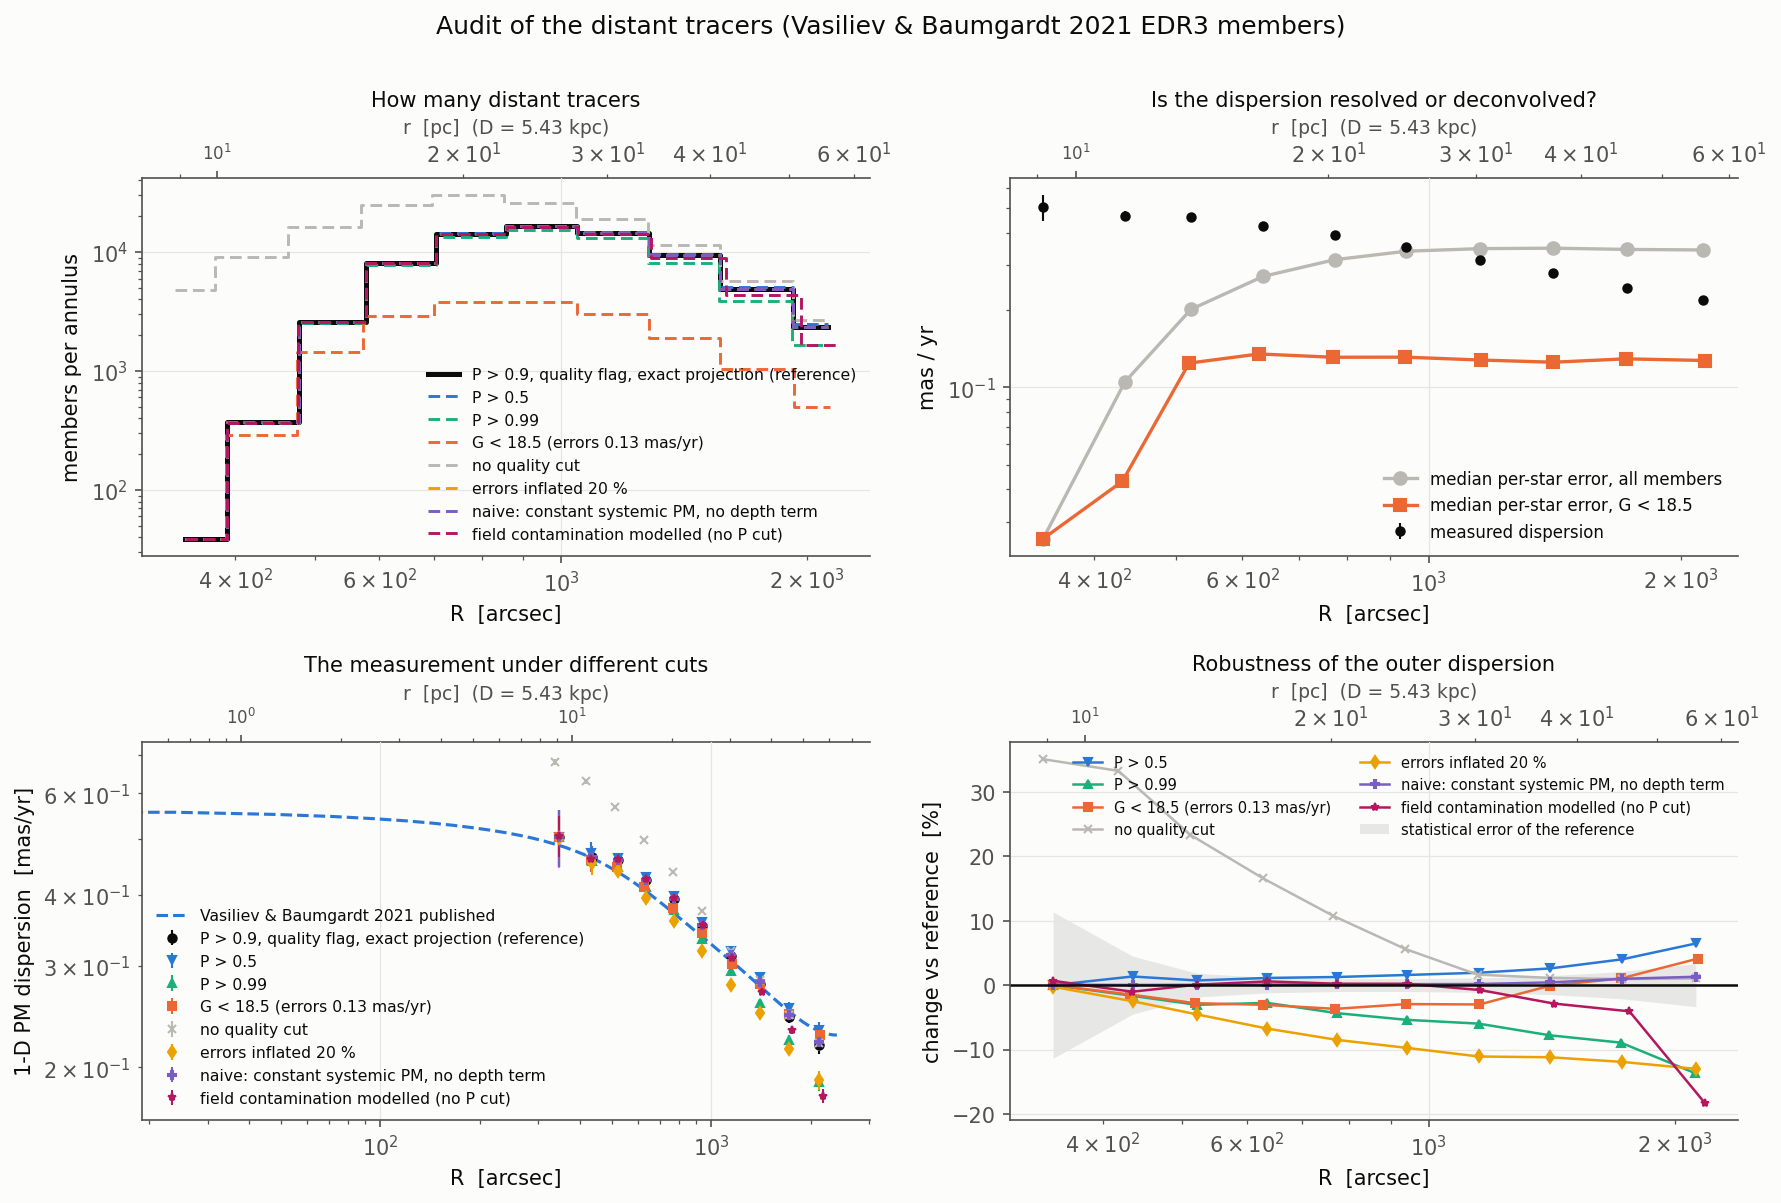
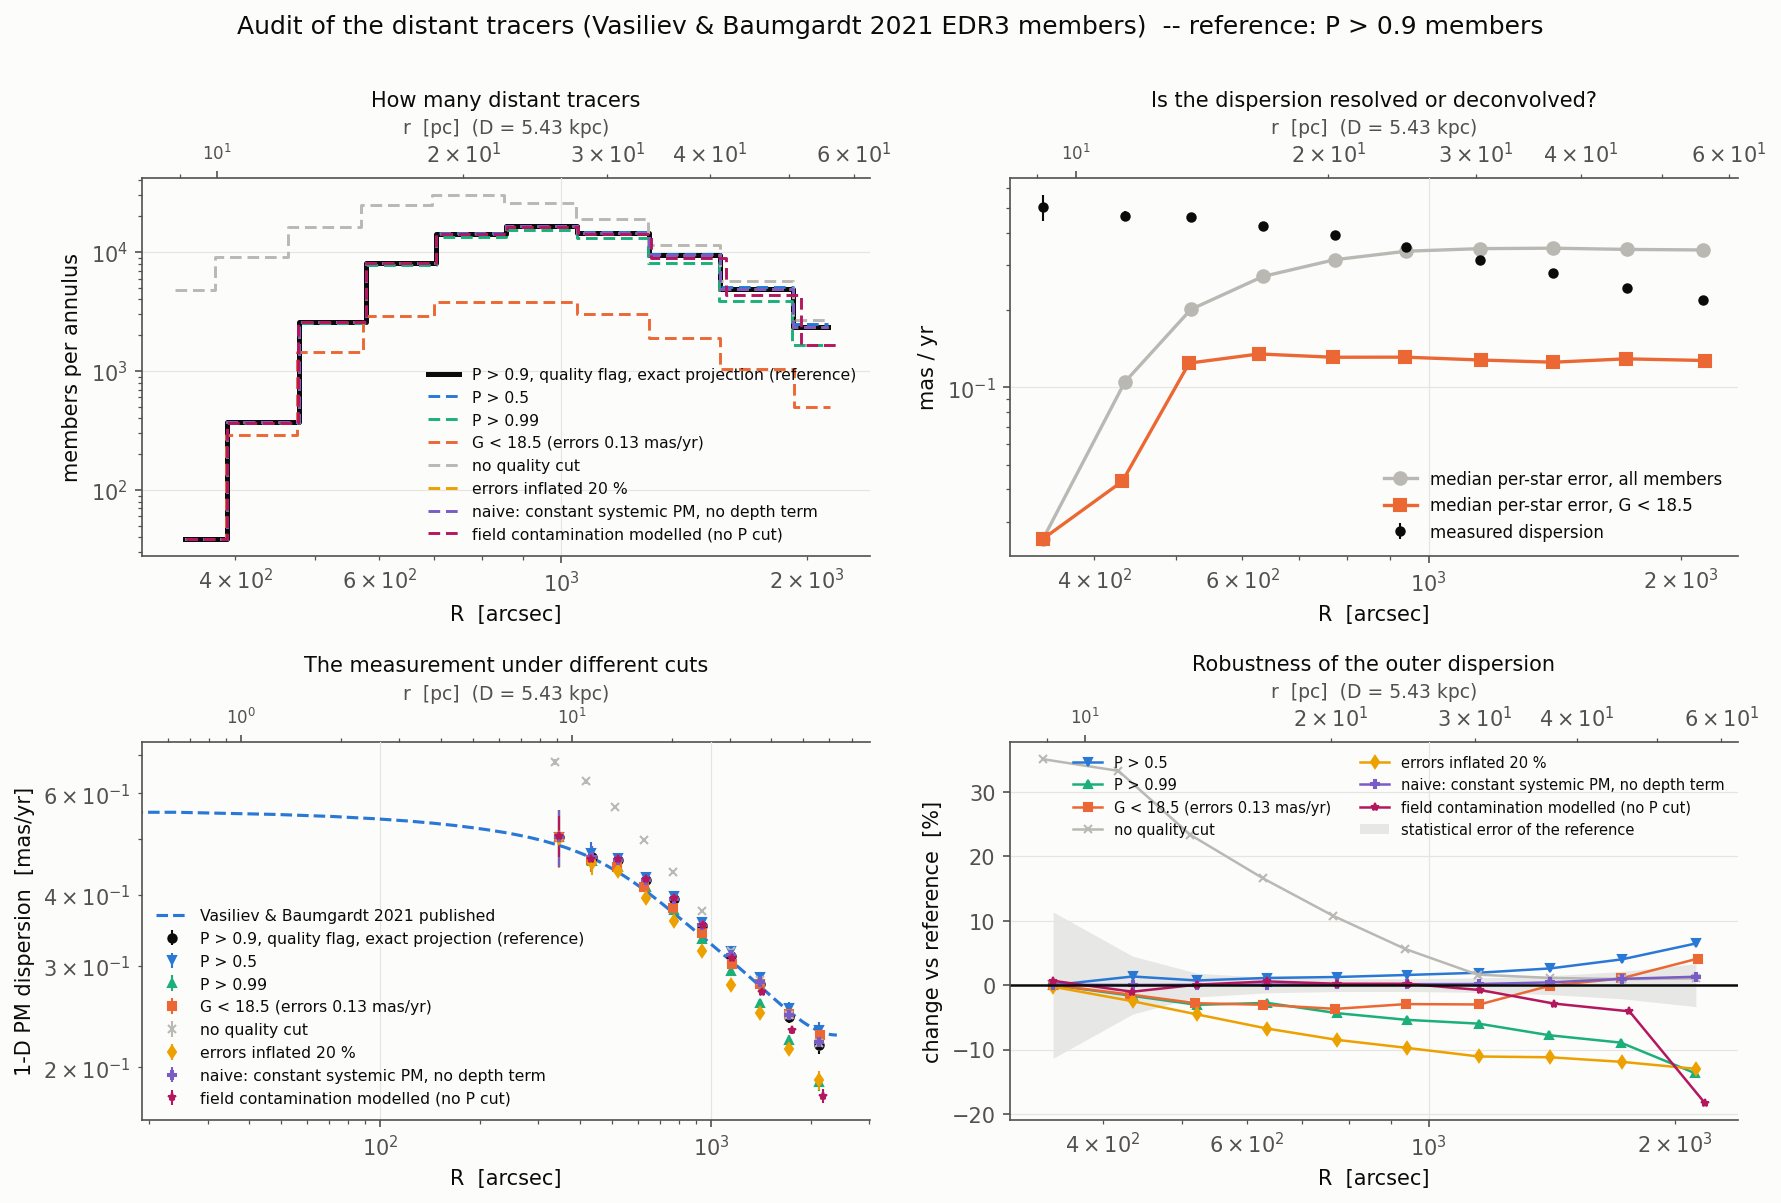
Constraint map and tracer audit in both versions (with/without contamination model); contamination-model illustration figure

Changed region(s): [[0.1235, 0.0, 0.8647, 0.0308]]

diff --git a/src/ocen_dm/plotting/constraints.py b/src/ocen_dm/plotting/constraints.py
@@ -31,7 +31,8 @@ from ..paths import processed_dir, results_dir
 from . import style
 from .style import add_pc_axis
 
-__all__ = ["plot_constraint_map", "plot_outer_tracer_audit", "our_outer_profile", "our_mixture_profile", "OUTER_EDGES"]
+__all__ = ["plot_constraint_map", "plot_outer_tracer_audit", "plot_contamination_model", "our_outer_profile",
+           "our_mixture_profile", "OUTER_EDGES"]
 
 #: log-spaced annuli for our own outer measurement (arcsec)
 OUTER_EDGES = np.geomspace(300.0, 2400.0, 11)
@@ -109,8 +110,12 @@ def _sigma_1d_kms(jeans, D: float, R_arcsec: np.ndarray, kind: str = "pm") -> np
     return np.sqrt(0.5 * (m["pmr"] ** 2 + m["pmt"] ** 2)) if kind == "pm" else m["los"]
 
 
-def _datasets_in_kms(D: float) -> list[dict]:
-    """Every dispersion dataset converted to a 1-D dispersion in km/s."""
+def _datasets_in_kms(D: float, contamination_modelled: bool = True) -> list[dict]:
+    """Every dispersion dataset converted to a 1-D dispersion in km/s.
+
+    ``contamination_modelled`` selects our Gaia measurement: the cluster+field mixture over
+    all quality stars (True) or the P > 0.9 members with the quality flag (False).
+    """
     k = KMS_PER_MASYR_KPC * D
     out = []
     hst_r = Table.read(processed_dir() / "kinematics" / "omegacat_vi_pm_radial.ecsv")
@@ -127,22 +132,28 @@ def _datasets_in_kms(D: float) -> list[dict]:
     out.append(dict(name="Gaia DR2 (Baumgardt+ 2019)", r=np.asarray(dr2["r"]), sigma=np.asarray(dr2["sigma_pm"]) * k,
                     err=0.5 * (np.asarray(dr2["sigma_pm_err_lo"]) + np.asarray(dr2["sigma_pm_err_hi"])) * k,
                     n=None, kind="pm", color=style.SERIES[2], marker="^"))
-    ours = our_mixture_profile()
-    out.append(dict(name="Gaia EDR3, our measurement (field modelled)", r=np.asarray(ours["r_median"]),
-                    sigma=np.asarray(ours["sigma_pm"]) * k, err=np.asarray(ours["sigma_pm_err"]) * k,
-                    n=np.round(np.asarray(ours["n_stars"]) * (1 - np.asarray(ours["f_field"]))).astype(int),
-                    kind="pm", color=style.INK, marker="D",
+    if contamination_modelled:
+        ours = our_mixture_profile()
+        name, errcol = "Gaia EDR3, our measurement (field contamination modelled)", "sigma_pm_err"
+        n = np.round(np.asarray(ours["n_stars"]) * (1 - np.asarray(ours["f_field"]))).astype(int)
+    else:
+        ours = our_outer_profile()
+        name, errcol = "Gaia EDR3, our measurement (P > 0.9 members, no contamination model)", "sigma_pmr_err"
+        n = np.asarray(ours["n_stars"])
+    out.append(dict(name=name, r=np.asarray(ours["r_median"]), sigma=np.asarray(ours["sigma_pm"]) * k,
+                    err=np.asarray(ours[errcol]) * k, n=n, kind="pm", color=style.INK, marker="D",
                     edges=(np.asarray(ours["r_lower"]), np.asarray(ours["r_upper"])), table=ours))
     return out
 
 
 def plot_constraint_map(path: Path | str = "plots/constraint_map.png",
-                        k1: str = "K1_noDM_composite", k2: str = "K2_cored_composite") -> Path:
+                        k1: str = "K1_noDM_composite", k2: str = "K2_cored_composite",
+                        contamination_modelled: bool = True) -> Path:
     """All dispersion data in km/s with the K1 and K2 curves, their ratio, and the tracer counts."""
     style.apply()
     j1, D, s1, _ = _model(k1)
     j2, D2, s2, _ = _model(k2)
-    data = _datasets_in_kms(D)
+    data = _datasets_in_kms(D, contamination_modelled)
     R = np.geomspace(2.0, 2400.0, 220)
 
     fig, axes = plt.subplots(3, 1, figsize=(9.5, 11), sharex=True,
@@ -159,7 +170,9 @@ def plot_constraint_map(path: Path | str = "plots/constraint_map.png",
                     ecolor=d["color"], elinewidth=1, capsize=0, lw=0, label=d["name"], zorder=5)
     ax.set_yscale("log"); ax.set_ylabel("1-D velocity dispersion  [km/s]")
     ax.legend(fontsize=8, ncol=2, loc="lower left")
-    ax.set_title("What constrains the mass, and where", fontsize=11)
+    ax.set_title("What constrains the mass, and where"
+                 + ("  (Gaia: field contamination modelled)" if contamination_modelled else "  (Gaia: P > 0.9 members, no contamination model)"),
+                 fontsize=11)
     add_pc_axis(ax, D)
 
     # residuals of every dataset against K1, and the K2/K1 model ratio. The Gaia points are
@@ -197,8 +210,12 @@ def plot_constraint_map(path: Path | str = "plots/constraint_map.png",
     return path
 
 
-def plot_outer_tracer_audit(path: Path | str = "plots/outer_tracer_audit.png") -> Path:
-    """Are the distant tracers secure, and is their dispersion resolved rather than deconvolved?"""
+def plot_outer_tracer_audit(path: Path | str = "plots/outer_tracer_audit.png", reference: str = "pcut") -> Path:
+    """Are the distant tracers secure, and is their dispersion resolved rather than deconvolved?
+
+    ``reference='pcut'``: the P > 0.9 + quality-flag measurement is the reference and the
+    contamination-modelled one is a variant; ``'mixture'``: the other way round.
+    """
     style.apply()
     edges = OUTER_EDGES
     variants = [
@@ -214,7 +231,13 @@ def plot_outer_tracer_audit(path: Path | str = "plots/outer_tracer_audit.png") -
     mix = our_mixture_profile(edges)
     mix["sigma_pmr_err"] = mix["sigma_pm_err"]
     mix["n_stars"] = np.round(np.asarray(mix["n_stars"]) * (1 - np.asarray(mix["f_field"]))).astype(int)   # cluster stars, not all stars
-    tables.append(("field contamination modelled (no P cut)", mix, "#b5175f", "*"))
+    if reference == "mixture":
+        pcut = tables[0]
+        mix["median_err"] = np.interp(np.asarray(mix["r_median"]), np.asarray(pcut[1]["r_median"]), np.asarray(pcut[1]["median_err"]))
+        tables[0] = ("field contamination modelled, no P cut (reference)", mix, style.INK, "o")
+        tables.append(("P > 0.9, quality flag, no contamination model", pcut[1], "#b5175f", "*"))
+    else:
+        tables.append(("field contamination modelled (no P cut)", mix, "#b5175f", "*"))
     ref = tables[0][1]
 
     fig, axes = plt.subplots(2, 2, figsize=(12, 8))
@@ -263,7 +286,81 @@ def plot_outer_tracer_audit(path: Path | str = "plots/outer_tracer_audit.png") -
     a_rat.set_title("Robustness of the outer dispersion", fontsize=10)
     add_pc_axis(a_rat, 5.43)
 
-    fig.suptitle("Audit of the distant tracers (Vasiliev & Baumgardt 2021 EDR3 members)", y=1.0)
+    fig.suptitle("Audit of the distant tracers (Vasiliev & Baumgardt 2021 EDR3 members)"
+                 + ("  -- reference: contamination modelled" if reference == "mixture" else "  -- reference: P > 0.9 members"), y=1.0)
+    fig.tight_layout()
+    path = Path(path); path.parent.mkdir(parents=True, exist_ok=True)
+    fig.savefig(path, dpi=150, bbox_inches="tight"); plt.close(fig)
+    return path
+
+
+def plot_contamination_model(path: Path | str = "plots/contamination_model.png",
+                             annuli: tuple[tuple[float, float], ...] = ((700.0, 1000.0), (1400.0, 1800.0), (1800.0, 2400.0)),
+                             distance_kpc: float = 5.43) -> Path:
+    """How the field is modelled: per-annulus PM histograms of all quality stars with the fitted
+    cluster + field mixture, a zoom on the cluster peak, and the summary vs radius."""
+    from ..kinematics.outer_profile import dispersion_ml, mixture_dispersion_free
+    from ..kinematics.perspective import depth_dispersion
+    style.apply()
+    s = load_members(exact=True, distance_kpc=distance_kpc)
+    q = s.select((s.quality_flag & QUALITY_BIT) > 0)
+    tracer = _composite_tracer(distance_kpc)
+    phi_sys = np.arctan2(*q.mu_sys)
+    n_ann = len(annuli)
+    fig, axes = plt.subplots(2, n_ann + 1, figsize=(4.2 * (n_ann + 1), 7.4))
+    grid_wide = np.linspace(-15, 15, 601); grid_zoom = np.linspace(-1.5, 1.5, 601)
+
+    def gauss(x, m, sd):
+        return np.exp(-0.5 * ((x - m) / sd) ** 2) / (sd * np.sqrt(2 * np.pi))
+
+    for j, (lo, hi) in enumerate(annuli):
+        m = (q.r_arcsec >= lo) & (q.r_arcsec < hi)
+        v, e = q.mu_r[m], q.err_r[m]
+        sd = depth_dispersion(tracer, q.r_arcsec[m] * distance_kpc * 1e3 / 206264.806, float(np.hypot(*q.mu_sys)), distance_kpc)
+        fit = mixture_dispersion_free(v, e, sd**2 * np.cos(q.phi[m] - phi_sys) ** 2)
+        w, fm, fs = fit["field"]; f = fit["f"]; n = m.sum()
+        e2 = float(np.mean(e**2))
+        for ax, grid, title in ((axes[0, j], grid_wide, f"{lo:.0f}-{hi:.0f} arcsec: all {n:,} quality stars"),
+                                (axes[1, j], grid_zoom, "zoom on the cluster peak")):
+            bins = np.linspace(grid[0], grid[-1], 121 if grid is grid_wide else 61)
+            ax.hist(v, bins=bins, color=style.COLOR_FIELD, alpha=0.7, label="data (radial PM)")
+            dx = bins[1] - bins[0]
+            clu = n * (1 - f) * gauss(grid, fit["mean"], np.sqrt(fit["sigma"] ** 2 + e2)) * dx
+            fld = n * f * (w * gauss(grid, fm[0], fs[0]) + (1 - w) * gauss(grid, fm[1], fs[1])) * dx
+            ax.plot(grid, clu, color=style.SERIES[0], lw=2, label=r"cluster: $\sigma$ = %.3f, N = %.0f" % (fit["sigma"], n * (1 - f)))
+            ax.plot(grid, fld, color=style.SERIES[1], lw=2, label="field: f = %.2f, $\sigma$ = %.1f, %.1f" % (f, fs[0], fs[1]))
+            ax.plot(grid, clu + fld, color=style.INK, lw=1.2, ls="--", label="total")
+            ax.set_xlabel(r"$\mu_R - \mu_{R,\rm sys}$  [mas/yr]"); ax.set_title(title, fontsize=9.5)
+            if grid is grid_wide:
+                ax.set_yscale("log"); ax.set_ylim(0.5, 3 * max(np.histogram(v, bins=bins)[0].max(), 1))
+            else:
+                # what a P-cut sample would contain: field stars under the cluster peak.
+                # The curves are counts per histogram bin, so integrate with the grid step / bin width.
+                inwin = np.abs(grid) < 3 * np.sqrt(fit["sigma"] ** 2 + e2)
+                gstep = grid[1] - grid[0]
+                n_under = fld[inwin].sum() * gstep / dx
+                ax.fill_between(grid[inwin], 0, fld[inwin], color=style.SERIES[1], alpha=0.35, lw=0,
+                                label="field under the peak (±3σ): %.0f stars = %.1f %% of the peak" % (n_under, 100 * n_under / max(clu[inwin].sum() * gstep / dx, 1)))
+            ax.legend(fontsize=7)
+        axes[0, j].set_ylabel("stars per bin"); axes[1, j].set_ylabel("stars per bin")
+
+    # summary vs radius
+    mix = our_mixture_profile(OUTER_EDGES); pcut = our_outer_profile(OUTER_EDGES)
+    ax = axes[0, n_ann]
+    ax.errorbar(pcut["r_median"], pcut["sigma_pm"], yerr=pcut["sigma_pmr_err"], fmt="o", color="#b5175f", ms=4, lw=0,
+                ecolor="#b5175f", elinewidth=1, label="P > 0.9 members (no contamination model)")
+    ax.errorbar(mix["r_median"], mix["sigma_pm"], yerr=mix["sigma_pm_err"], fmt="D", color=style.INK, ms=4, lw=0,
+                ecolor=style.INK, elinewidth=1, label="cluster + field mixture, all stars")
+    ax.set_xscale("log"); ax.set_yscale("log"); ax.set_xlabel("R  [arcsec]"); ax.set_ylabel("1-D PM dispersion  [mas/yr]")
+    ax.legend(fontsize=7.5); ax.set_title("Effect on the dispersion profile", fontsize=9.5); add_pc_axis(ax, distance_kpc)
+    ax = axes[1, n_ann]
+    ax.plot(mix["r_median"], mix["f_field"], "o-", color=style.SERIES[1], lw=1.6, label="field fraction of all quality stars (mixture)")
+    ax.plot(mix["r_median"], 100 * (np.asarray(pcut["sigma_pm"]) / np.asarray(mix["sigma_pm"]) - 1) / 100, "s--",
+            color="#b5175f", lw=1.2, label=r"($\sigma_{P>0.9}/\sigma_{\rm mixture} - 1$)")
+    ax.axhline(0, color=style.INK_SECONDARY, lw=0.8)
+    ax.set_xscale("log"); ax.set_xlabel("R  [arcsec]"); ax.set_ylabel("fraction"); ax.legend(fontsize=7.5)
+    ax.set_title("Field fraction and the bias of the P cut", fontsize=9.5); add_pc_axis(ax, distance_kpc)
+    fig.suptitle("Field contamination of the Gaia EDR3 members: the mixture model", y=1.0)
     fig.tight_layout()
     path = Path(path); path.parent.mkdir(parents=True, exist_ok=True)
     fig.savefig(path, dpi=150, bbox_inches="tight"); plt.close(fig)

diff --git a/tests/test_constraints_plot.py b/tests/test_constraints_plot.py
@@ -42,8 +42,10 @@ def test_bright_subsample_resolves_the_outer_dispersion():
 
 @pytest.mark.skipif(not (_HAS_RUNS and _HAS_MEMBERS), reason="runs or members missing")
 def test_figures_render(tmp_path):
-    from ocen_dm.plotting.constraints import plot_constraint_map, plot_outer_tracer_audit
-    a = plot_constraint_map(tmp_path / "map.png")
-    b = plot_outer_tracer_audit(tmp_path / "audit.png")
-    assert a.exists() and a.stat().st_size > 50_000
-    assert b.exists() and b.stat().st_size > 50_000
+    from ocen_dm.plotting.constraints import plot_constraint_map, plot_contamination_model, plot_outer_tracer_audit
+    for path in (plot_constraint_map(tmp_path / "map.png"),
+                 plot_constraint_map(tmp_path / "map_pcut.png", contamination_modelled=False),
+                 plot_outer_tracer_audit(tmp_path / "audit.png"),
+                 plot_outer_tracer_audit(tmp_path / "audit_mix.png", reference="mixture"),
+                 plot_contamination_model(tmp_path / "contam.png", annuli=((1400.0, 1800.0),))):
+        assert path.exists() and path.stat().st_size > 50_000

diff --git a/src/ocen_dm/cli.py b/src/ocen_dm/cli.py
@@ -314,9 +314,13 @@ DEFAULT_DATASETS = "hst_pm_radial,hst_pm_tangential,muse_los_dispersion,gaia_dr2
 
 def cmd_plot_constraints(args: argparse.Namespace) -> int:
     """Write the constraint-map and outer-tracer-audit figures."""
-    from .plotting.constraints import plot_constraint_map, plot_outer_tracer_audit
+    from .plotting.constraints import plot_constraint_map, plot_contamination_model, plot_outer_tracer_audit
 
-    for path in (plot_constraint_map(k1=args.k1, k2=args.k2), plot_outer_tracer_audit()):
+    for path in (plot_constraint_map(k1=args.k1, k2=args.k2, contamination_modelled=True),
+                 plot_constraint_map("plots/constraint_map_pcut.png", k1=args.k1, k2=args.k2, contamination_modelled=False),
+                 plot_outer_tracer_audit(reference="pcut"),
+                 plot_outer_tracer_audit("plots/outer_tracer_audit_mixture.png", reference="mixture"),
+                 plot_contamination_model()):
         print(f"  wrote {path}")
     return 0
 
